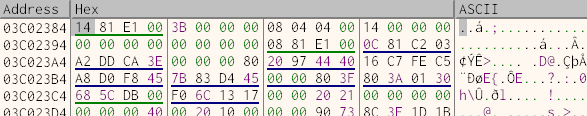
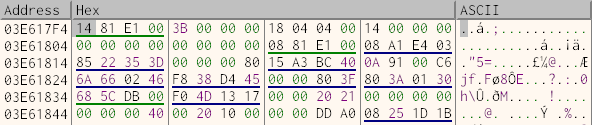
redo player pointers for SWIM

diff --git a/SWIM.md b/SWIM.md
@@ -59,16 +59,18 @@ pointer to a `mover` class 184 bytes ahead of that.
 ![pc_mover_code](./img/pc_mover_code.png)
 
 After realizing bit '11' in the comments for 'swimming' meant 'bit 12' it was
-easy enough to hold a direction, pause, compare memory and see 54 bytes into
+easy enough to hold a direction, pause, compare memory and see 94 bytes into
 the `mover` class had the current direction of the player.
 
-`107A104` points to `3C02384`, +184 bytes is `3C02508` which points to `3C182CC`,
-+94 bytes is `3C18360` which finally points to the direction bits of the player.
+`107A104` points to `3E617F4`, +184 bytes is `3E61978` which points to `3E00F7C`,
++94 bytes is `3E01010` which finally holds the direction bits of the player.
 
 #### Player Pointer
 ![pc_ptr](./img/pc_ptr.png)
 #### Player Class
 ![pc_class](./img/pc_class.png)
+#### Player Mover
+![pc_mover](./img/pc_mover.png)
 #### Player Mover class 'direction' (94 bytes ahead)
 ![pc_mover_dir](./img/pc_mover_dir.png)
 
@@ -90,7 +92,7 @@ right to left map out like this.
 |10|11|sneak|
 |11|12|water|
 
-swim/water bit-> `0000 0000 0000` <-forward bit
+swim/water bit-> `0000 0100 0000` <-forward bit
 
 > Note: none of these seemed to be 'jump' or 'in-air'
 
